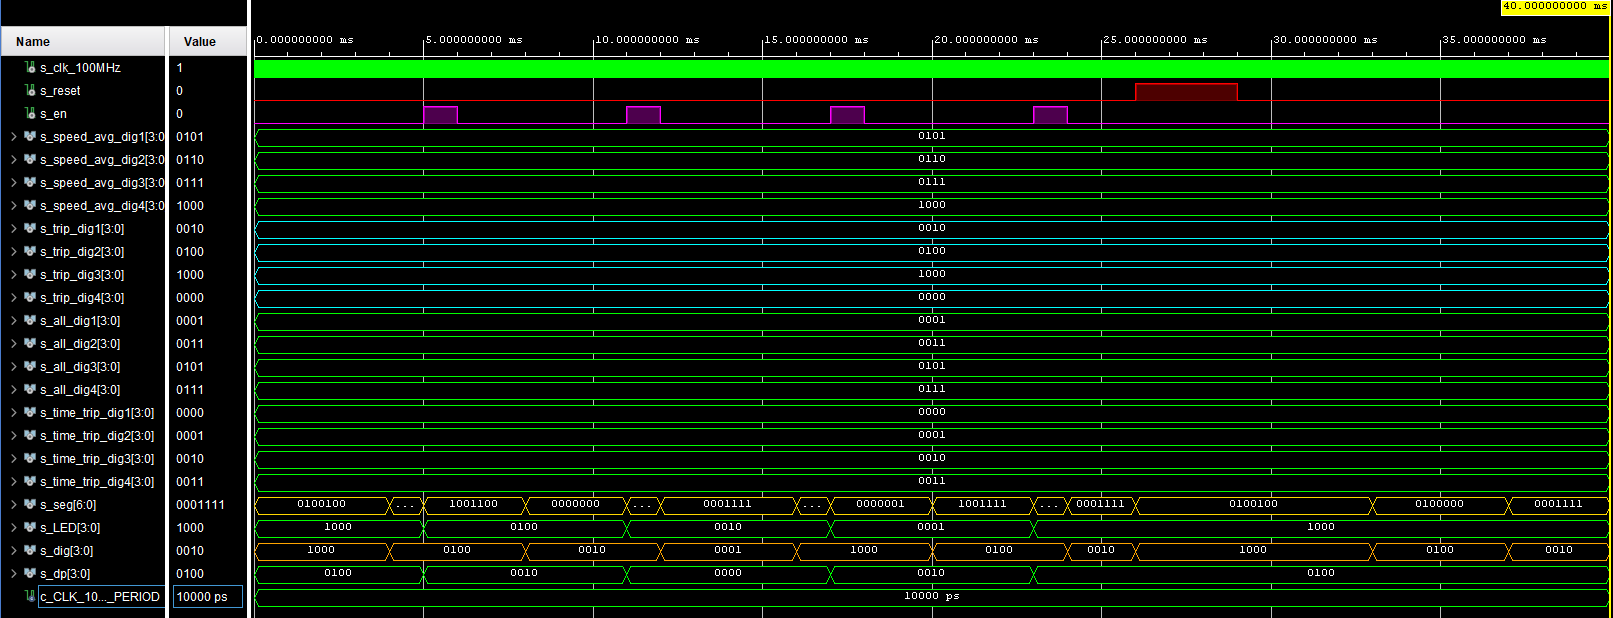
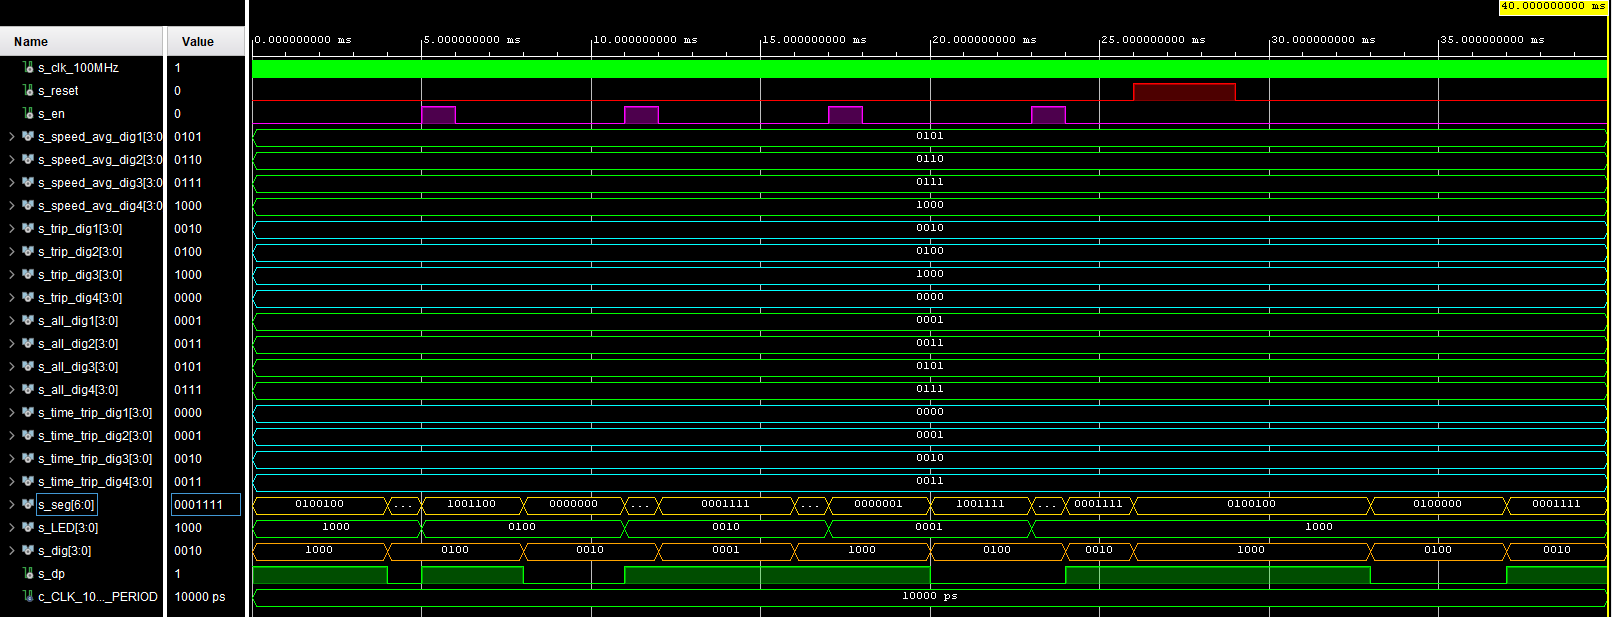
readme

diff --git a/README.md b/README.md
@@ -828,6 +828,42 @@ Simulation:
 ## Part 3 (driver_7seg_4digits_speed_cur, driver_7seg_4digits_mode)
 
 ## Module: driver_7seg_4digits_speed_cur
+Intupts and outputh of the whole module:
+```vhdl
+   entity driver_7seg_4digits_speed_cur is
+    port(
+        clk              : in  std_logic;                           -- Main clock
+        reset            : in  std_logic;                           -- Synchronous reset
+        -- 4-bit input values for individual digits
+        speed_cur_dig1_i : in  std_logic_vector(4 - 1 downto 0);    -- Current speed value for 1. digit (tens of kilometers)
+        speed_cur_dig2_i : in  std_logic_vector(4 - 1 downto 0);    -- Current speed value for 2. digit (kilometers)
+        speed_cur_dig3_i : in  std_logic_vector(4 - 1 downto 0);    -- Current speed value for 3. digit (hundreds of meters)
+        speed_cur_dig4_i : in  std_logic_vector(4 - 1 downto 0);    -- Current speed value for 4. digit (tens of meters)
+        -- Cathode values for individual segments
+        seg_o            : out std_logic_vector(7 - 1 downto 0);
+        -- Common anode signals to individual displays
+        dig_o            : out std_logic_vector(4 - 1 downto 0);
+        -- Decimal point for specific digit
+        dp_o             : out std_logic
+    );
+end entity driver_7seg_4digits_speed_cur;
+
+------------------------------------------------------------------------
+-- Architecture declaration for display driver
+------------------------------------------------------------------------
+architecture Behavioral of driver_7seg_4digits_speed_cur is
+
+    -- Internal clock enable
+    signal s_en  : std_logic;
+    -- Internal 2-bit counter for multiplexing 4 digits
+    signal s_cnt : std_logic_vector(2 - 1 downto 0);
+    -- Internal 4-bit value for 7-segment decoder
+    signal s_hex : std_logic_vector(4 - 1 downto 0);
+    -- Internal decimal point value
+    signal dp    : std_logic_vector(4 - 1 downto 0);
+
+
+```
 
 Submodule (clock_enable):
 Generates 400 000 clk pulses.
@@ -891,23 +927,28 @@ dig_o displays the common anode signal to individual displays.
 ```vhdl
  p_mux : process(s_cnt, speed_cur_dig1_i, speed_cur_dig2_i, speed_cur_dig3_i, speed_cur_dig4_i)
     begin
-        dp_o            <= "0100";
+        dp            <= "1011";        --enable decimal point
         case s_cnt is
             when "11" =>
                 s_hex <= speed_cur_dig4_i;
                 dig_o <= "0001";
+                dp_o  <= dp(0);
 
             when "10" =>
                 s_hex <= speed_cur_dig3_i;
                 dig_o <= "0010";
+                dp_o  <= dp(1);
 
             when "01" =>
                 s_hex <= speed_cur_dig2_i;
                 dig_o <= "0100";
+                dp_o  <= dp(2);
 
             when others =>
                 s_hex <= speed_cur_dig1_i;
                 dig_o <= "1000";
+                dp_o  <= dp(3);
+
         end case;
     end process p_mux;
 
@@ -949,6 +990,50 @@ Simulation:
 
 ## Module: driver_7seg_4digits_mode
 In this module, multiplexer is used so the user can alternated, what data is displayed on the 7- segment display. It consists of several submodules listed below.
+Inputs and outputs used in the whole module:
+```vhdl
+  entity driver_7seg_4digits_mode is
+    Port (
+           clk                : in  std_logic;                             -- Main clock
+           reset              : in  std_logic;                             -- Synchronous reset
+           en_i               : in  std_logic;                             -- Button to select mode
+           speed_avg_dig1_i   : in STD_LOGIC_VECTOR  (4 - 1 downto 0);     -- Speed average value for 1. digit (tens of kilometers)
+           speed_avg_dig2_i   : in STD_LOGIC_VECTOR  (4 - 1 downto 0);     -- Speed average value for 2. digit (kilometers)
+           speed_avg_dig3_i   : in STD_LOGIC_VECTOR  (4 - 1 downto 0);     -- Speed average value for 3. digit (hundreds of meters)
+           speed_avg_dig4_i   : in STD_LOGIC_VECTOR  (4 - 1 downto 0);     -- Speed average value for 4. digit (tens of meters)
+           trip_dig1_i        : in STD_LOGIC_VECTOR  (4 - 1 downto 0);     -- 1 trip distance value for 1. digit (hundreds of kilometers)
+           trip_dig2_i        : in STD_LOGIC_VECTOR  (4 - 1 downto 0);     -- 1 trip distance value for 2. digit (tens of kilometers)
+           trip_dig3_i        : in STD_LOGIC_VECTOR  (4 - 1 downto 0);     -- 1 trip distance value for 3. digit (kilometers)
+           trip_dig4_i        : in STD_LOGIC_VECTOR  (4 - 1 downto 0);     -- 1 trip distance value for 4. digit (hundreds of meters)
+           all_dig1_i         : in STD_LOGIC_VECTOR  (4 - 1 downto 0);     -- Total distance value for 1. digit (thousands of kilometers)
+           all_dig2_i         : in STD_LOGIC_VECTOR  (4 - 1 downto 0);     -- Total distance value for 2. digit (hundreds of kilometers)
+           all_dig3_i         : in STD_LOGIC_VECTOR  (4 - 1 downto 0);     -- Total distance value for 3. digit (tens of kilometers)
+           all_dig4_i         : in STD_LOGIC_VECTOR  (4 - 1 downto 0);     -- Total distance value for 4. digit (kilometers)
+           time_trip_dig1_i   : in STD_LOGIC_VECTOR  (4 - 1 downto 0);     -- Current time of 1 trip value for 1. digit (tens of hours)
+           time_trip_dig2_i   : in STD_LOGIC_VECTOR  (4 - 1 downto 0);     -- Current time of 1 trip value for 2. digit (hours)
+           time_trip_dig3_i   : in STD_LOGIC_VECTOR  (4 - 1 downto 0);     -- Current time of 1 trip value for 3. digit (tens of minutes)
+           time_trip_dig4_i   : in STD_LOGIC_VECTOR  (4 - 1 downto 0);     -- Current time of 1 trip value for 4. digit (minutes)
+           seg_o              : out std_logic_vector (7 - 1 downto 0);     -- Cathode values for individual segments
+           LED_o              : out STD_LOGIC_VECTOR (4 - 1 downto 0);     -- LEDs on board to display which mode is selected
+           dig_o              : out STD_LOGIC_VECTOR (4 - 1 downto 0);     -- Choose which digit will be active (enable anode)
+           dp_o               : out std_logic                              -- Choose decimal point of the digit
+    );
+end driver_7seg_4digits_mode;
+
+architecture Behavioral of driver_7seg_4digits_mode is
+
+    -- Internal clock enable
+    signal s_en        : std_logic;
+    -- Internal 2-bit counter for multiplexing 4 digits
+    signal s_cnt       : std_logic_vector(2 - 1 downto 0);
+    -- Internal signal to select mode
+    signal s_cnt_mode  : std_logic_vector(2 - 1 downto 0);
+    -- Internal 4-bit value for 7-segment decoder
+    signal s_hex       : std_logic_vector(4 - 1 downto 0);
+    -- Internal decimal point value
+    signal dp          : std_logic_vector(4 - 1 downto 0);
+
+```
 
 Submodule (clock_enable):
 Generates 400 000 clk pulses.
@@ -1014,73 +1099,90 @@ p_mux : process(s_cnt, s_cnt_mode,
                     all_dig1_i, all_dig2_i, all_dig3_i, all_dig4_i,
                     time_trip_dig1_i, time_trip_dig2_i, time_trip_dig3_i, time_trip_dig4_i)
     begin
+    begin
         case s_cnt_mode is
             when "00" =>                            -- Average speed is assigned to the mode combination "00"
-                dp_o    <= "0100";                  -- Enabled decimal point for average speed (second digit - kilometers)
+                dp      <= "1011";                  -- Enabled decimal point for average speed (second digit - kilometers)
                 LED_o   <= "1000";                  -- Turn on LED 4
                 if (s_cnt = "00") then
                     s_hex <= speed_avg_dig1_i;      -- Display tens of kilometers if counter combination is "00"
                     dig_o <= "1000";                -- Enable 1. digit from the left
+                    dp_o  <= dp(3);
                 elsif (s_cnt = "01") then
                     s_hex <= speed_avg_dig2_i;      -- Display kilometers if counter combination is "01"
                     dig_o <= "0100";                -- Enable 2. digit from the left
+                    dp_o  <= dp(2);
                 elsif (s_cnt = "10") then
                     s_hex <= speed_avg_dig3_i;      -- Display hundreds of meters if counter combination is "10"
                     dig_o <= "0010";                -- Enable 3. digit from the left
+                    dp_o  <= dp(1);
                 else
                     s_hex <= speed_avg_dig4_i;      -- Display tens of meters if counter combination is "11"
                     dig_o <= "0001";                -- Enable 4. digit from the left
+                    dp_o  <= dp(0);
                 end if;
 
             when "01" =>                            -- Trip distance is assigned to the mode combination "01"
-                dp_o    <= "0010";                  -- Enabled decimal point for trip distance (third digit - kilometers)
+                dp      <= "1101";                  -- Enabled decimal point for trip distance (third digit - kilometers)
                 LED_o   <= "0100";                  -- Turn on LED 5
                 if (s_cnt = "00") then
-                    s_hex <= trip_dig1_i;           -- Display tens of kilometers if counter combination is "00"
+                    s_hex <= trip_dig1_i;           -- Display hundreds of kilometers if counter combination is "00"
                     dig_o <= "1000";                -- Enable 1. digit from the left
+                    dp_o  <= dp(3);
                 elsif (s_cnt = "01") then
-                    s_hex <= trip_dig2_i;           -- Display kilometers if counter combination is "01"
+                    s_hex <= trip_dig2_i;           -- Display tens of kilometers if counter combination is "01"
                     dig_o <= "0100";                -- Enable 2. digit from the left
+                    dp_o  <= dp(2);
                 elsif (s_cnt = "10") then
-                    s_hex <= trip_dig3_i;           -- Display hundreds of meters if counter combination is "10"
+                    s_hex <= trip_dig3_i;           -- Display kilometers if counter combination is "10"
                     dig_o <= "0010";                -- Enable 3. digit from the left
+                    dp_o  <= dp(1);
                 else
-                    s_hex <= trip_dig4_i;           -- Display tens of meters if counter combination is "11"
+                    s_hex <= trip_dig4_i;           -- Display hundreds of meters if counter combination is "11"
                     dig_o <= "0001";                -- Enable 4. digit from the left
+                    dp_o  <= dp(0);
                 end if;
 
             when "10" =>                            -- Total distance is assigned to the mode combination "10"
-                dp_o    <= "0000";                  -- Disabled decimal point for total distance
+                dp      <= "1111";                  -- Disabled decimal point for total distance
                 LED_o   <= "0010";                  -- Turn on LED 6
                 if (s_cnt = "00") then
-                    s_hex <= all_dig1_i;            -- Display tens of kilometers if counter combination is "00"
+                    s_hex <= all_dig1_i;            -- Display thousands of kilometers if counter combination is "00"
                     dig_o <= "1000";                -- Enable 1. digit from the left
+                    dp_o  <= dp(3);
                 elsif (s_cnt = "01") then
-                    s_hex <= all_dig2_i;            -- Display kilometers if counter combination is "01"
+                    s_hex <= all_dig2_i;            -- Display hundreds of kilometers if counter combination is "01"
                     dig_o <= "0100";                -- Enable 2. digit from the left
+                    dp_o  <= dp(2);
                 elsif (s_cnt = "10") then
-                    s_hex <= all_dig3_i;            -- Display hundreds of meters if counter combination is "10"
+                    s_hex <= all_dig3_i;            -- Display tens of kilometers if counter combination is "10"
                     dig_o <= "0010";                -- Enable 3. digit from the left
+                    dp_o  <= dp(1);
                 else
-                    s_hex <= all_dig4_i;            -- Display tens of meters if counter combination is "11"
+                    s_hex <= all_dig4_i;            -- Display kilometers if counter combination is "11"
                     dig_o <= "0001";                -- Enable 4. digit from the left
+                    dp_o  <= dp(0);
                 end if;
 
             when others =>                          -- Time trip is assigned to the mode combination "11"
-                dp_o    <= "0010";                  -- Disabled decimal point for time trip
+                dp      <= "1011";                  -- Enabled decimal point for time trip (hours)
                 LED_o   <= "0001";                  -- Turn on LED 7
                 if (s_cnt = "00") then
                     s_hex <= time_trip_dig1_i;      -- Display tens of hours if counter combination is "00"
                     dig_o <= "1000";                -- Enable 1. digit from the left
+                    dp_o  <= dp(3);
                 elsif (s_cnt = "01") then
                     s_hex <= time_trip_dig2_i;      -- Display hours if counter combination is "01"
                     dig_o <= "0100";                -- Enable 2. digit from the left
+                    dp_o  <= dp(2);
                 elsif (s_cnt = "10") then
                     s_hex <= time_trip_dig3_i;      -- Display tens of minutes if counter combination is "10"
                     dig_o <= "0010";                -- Enable 3. digit from the left
+                    dp_o  <= dp(1);
                 else
-                    s_hex <= time_trip_dig4_i;      -- Display tens of hours if counter combination is "11"
+                    s_hex <= time_trip_dig4_i;      -- Display minutes if counter combination is "11"
                     dig_o <= "0001";                -- Enable 4. digit from the left
+                    dp_o  <= dp(0);
                 end if;
         end case;
     end process p_mux;
